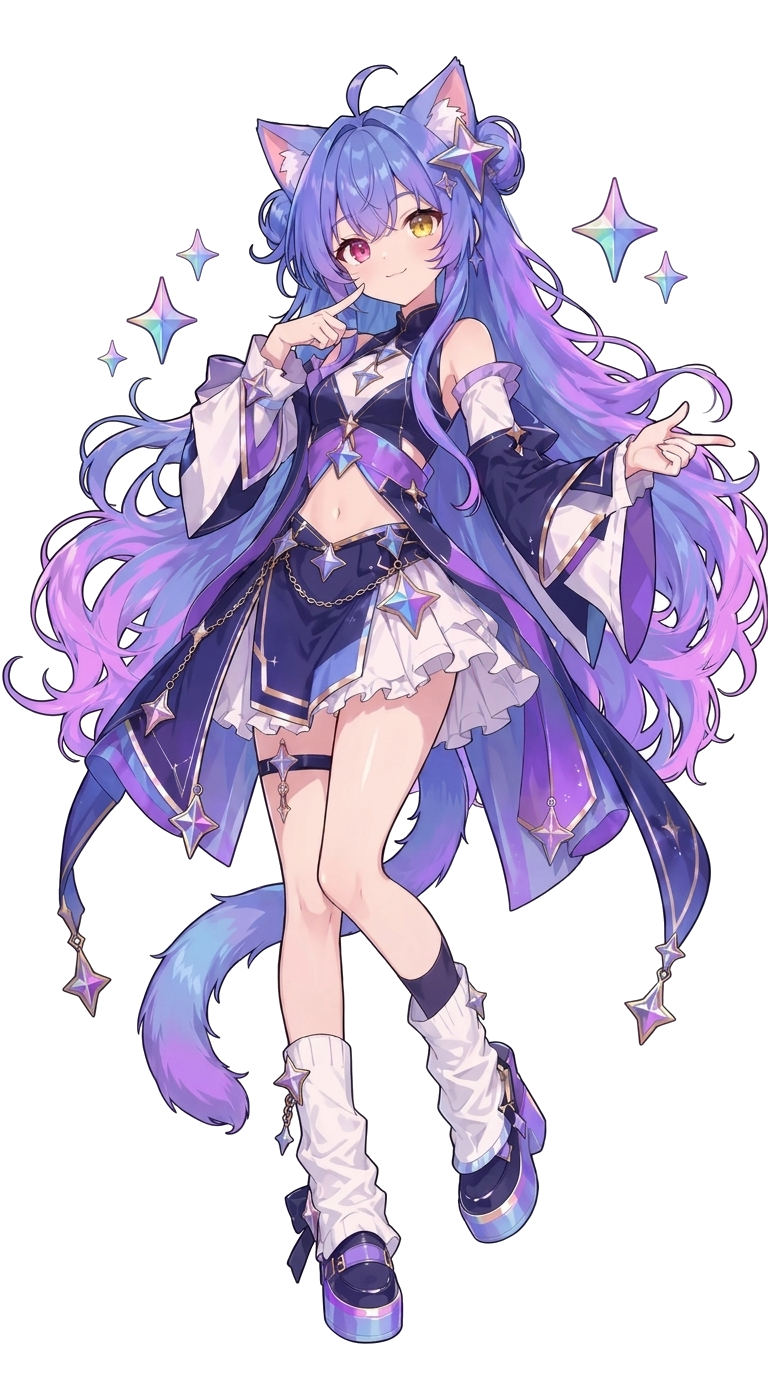
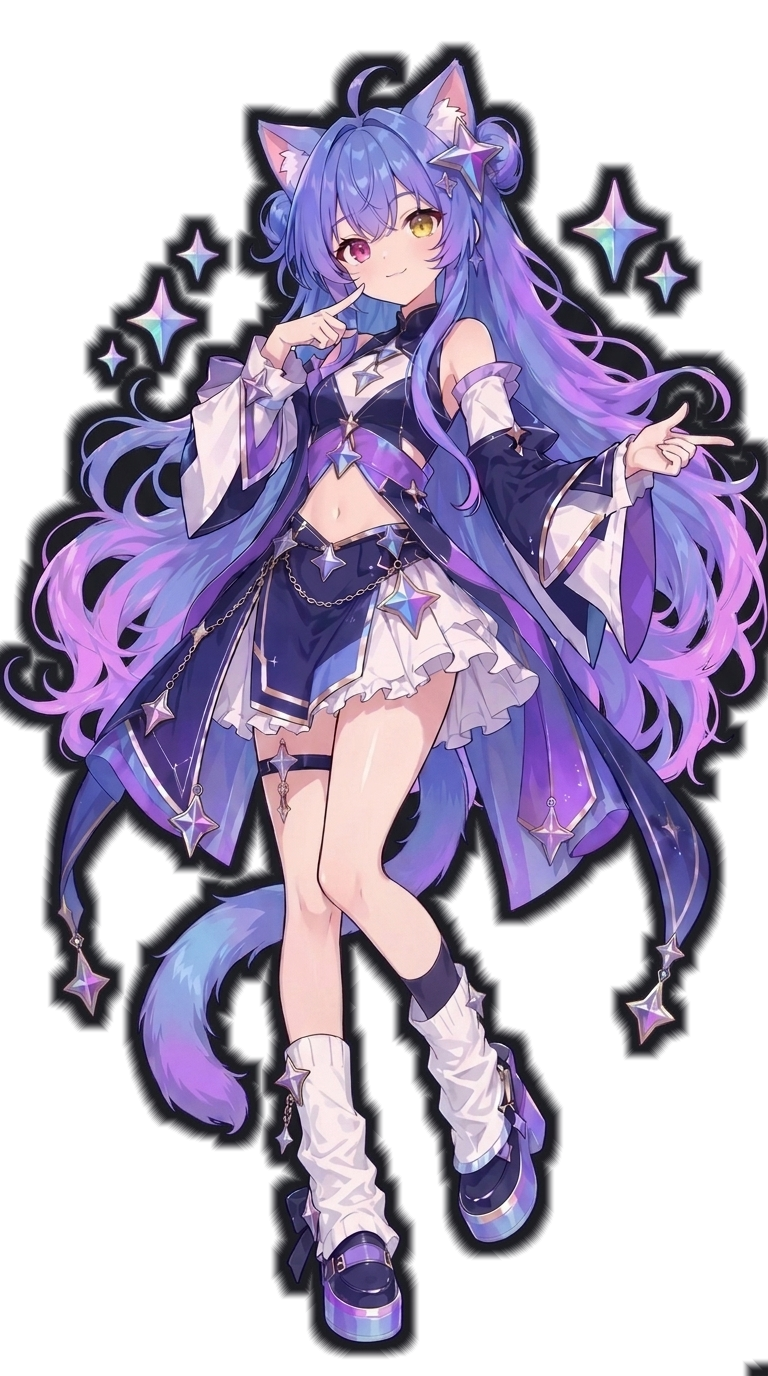
feat: use dark-background HD Gemini pet with soft outer feathering

Changed region(s): [[0.0, 0.0312, 1.0, 1.0], [0.125, 0.4375, 0.1875, 0.5], [0.9688, 0.9688, 1.0, 1.0]]

diff --git a/sidecars/pet_panel/styles.css b/sidecars/pet_panel/styles.css
@@ -1,7 +1,7 @@
 :root {
-  --bg: var(--background, #0f172a);
+  --bg: var(--background, #1d1e22);
   --fg: var(--foreground, #f8fafc);
-  --card-bg: rgba(148, 163, 184, 0.1);
+  --card-bg: rgba(148, 163, 184, 0.08);
   --card-border: rgba(168, 85, 247, 0.25);
   --accent: #c084fc;
   --muted: #94a3b8;
@@ -57,10 +57,9 @@ body {
 }
 
 .pet-img {
-  width: 170px;
+  width: 175px;
   height: auto;
   display: block;
-  filter: drop-shadow(0 8px 18px rgba(139, 92, 246, 0.3));
   transition: transform 0.18s cubic-bezier(0.34, 1.56, 0.64, 1);
 }
 

diff --git a/sidecars/pet_panel/index.html b/sidecars/pet_panel/index.html
@@ -14,7 +14,7 @@
         Hi! I'm your Gemini Usage Pet ✨ (v0.1-base connected!)
       </div>
       <div class="pet-avatar" id="pet-avatar">
-        <img src="/pet.png?v=2" alt="Gemini Pet" class="pet-img" draggable="false" />
+        <img src="/pet.png?v=3" alt="Gemini Pet" class="pet-img" draggable="false" />
       </div>
     </div>
 
